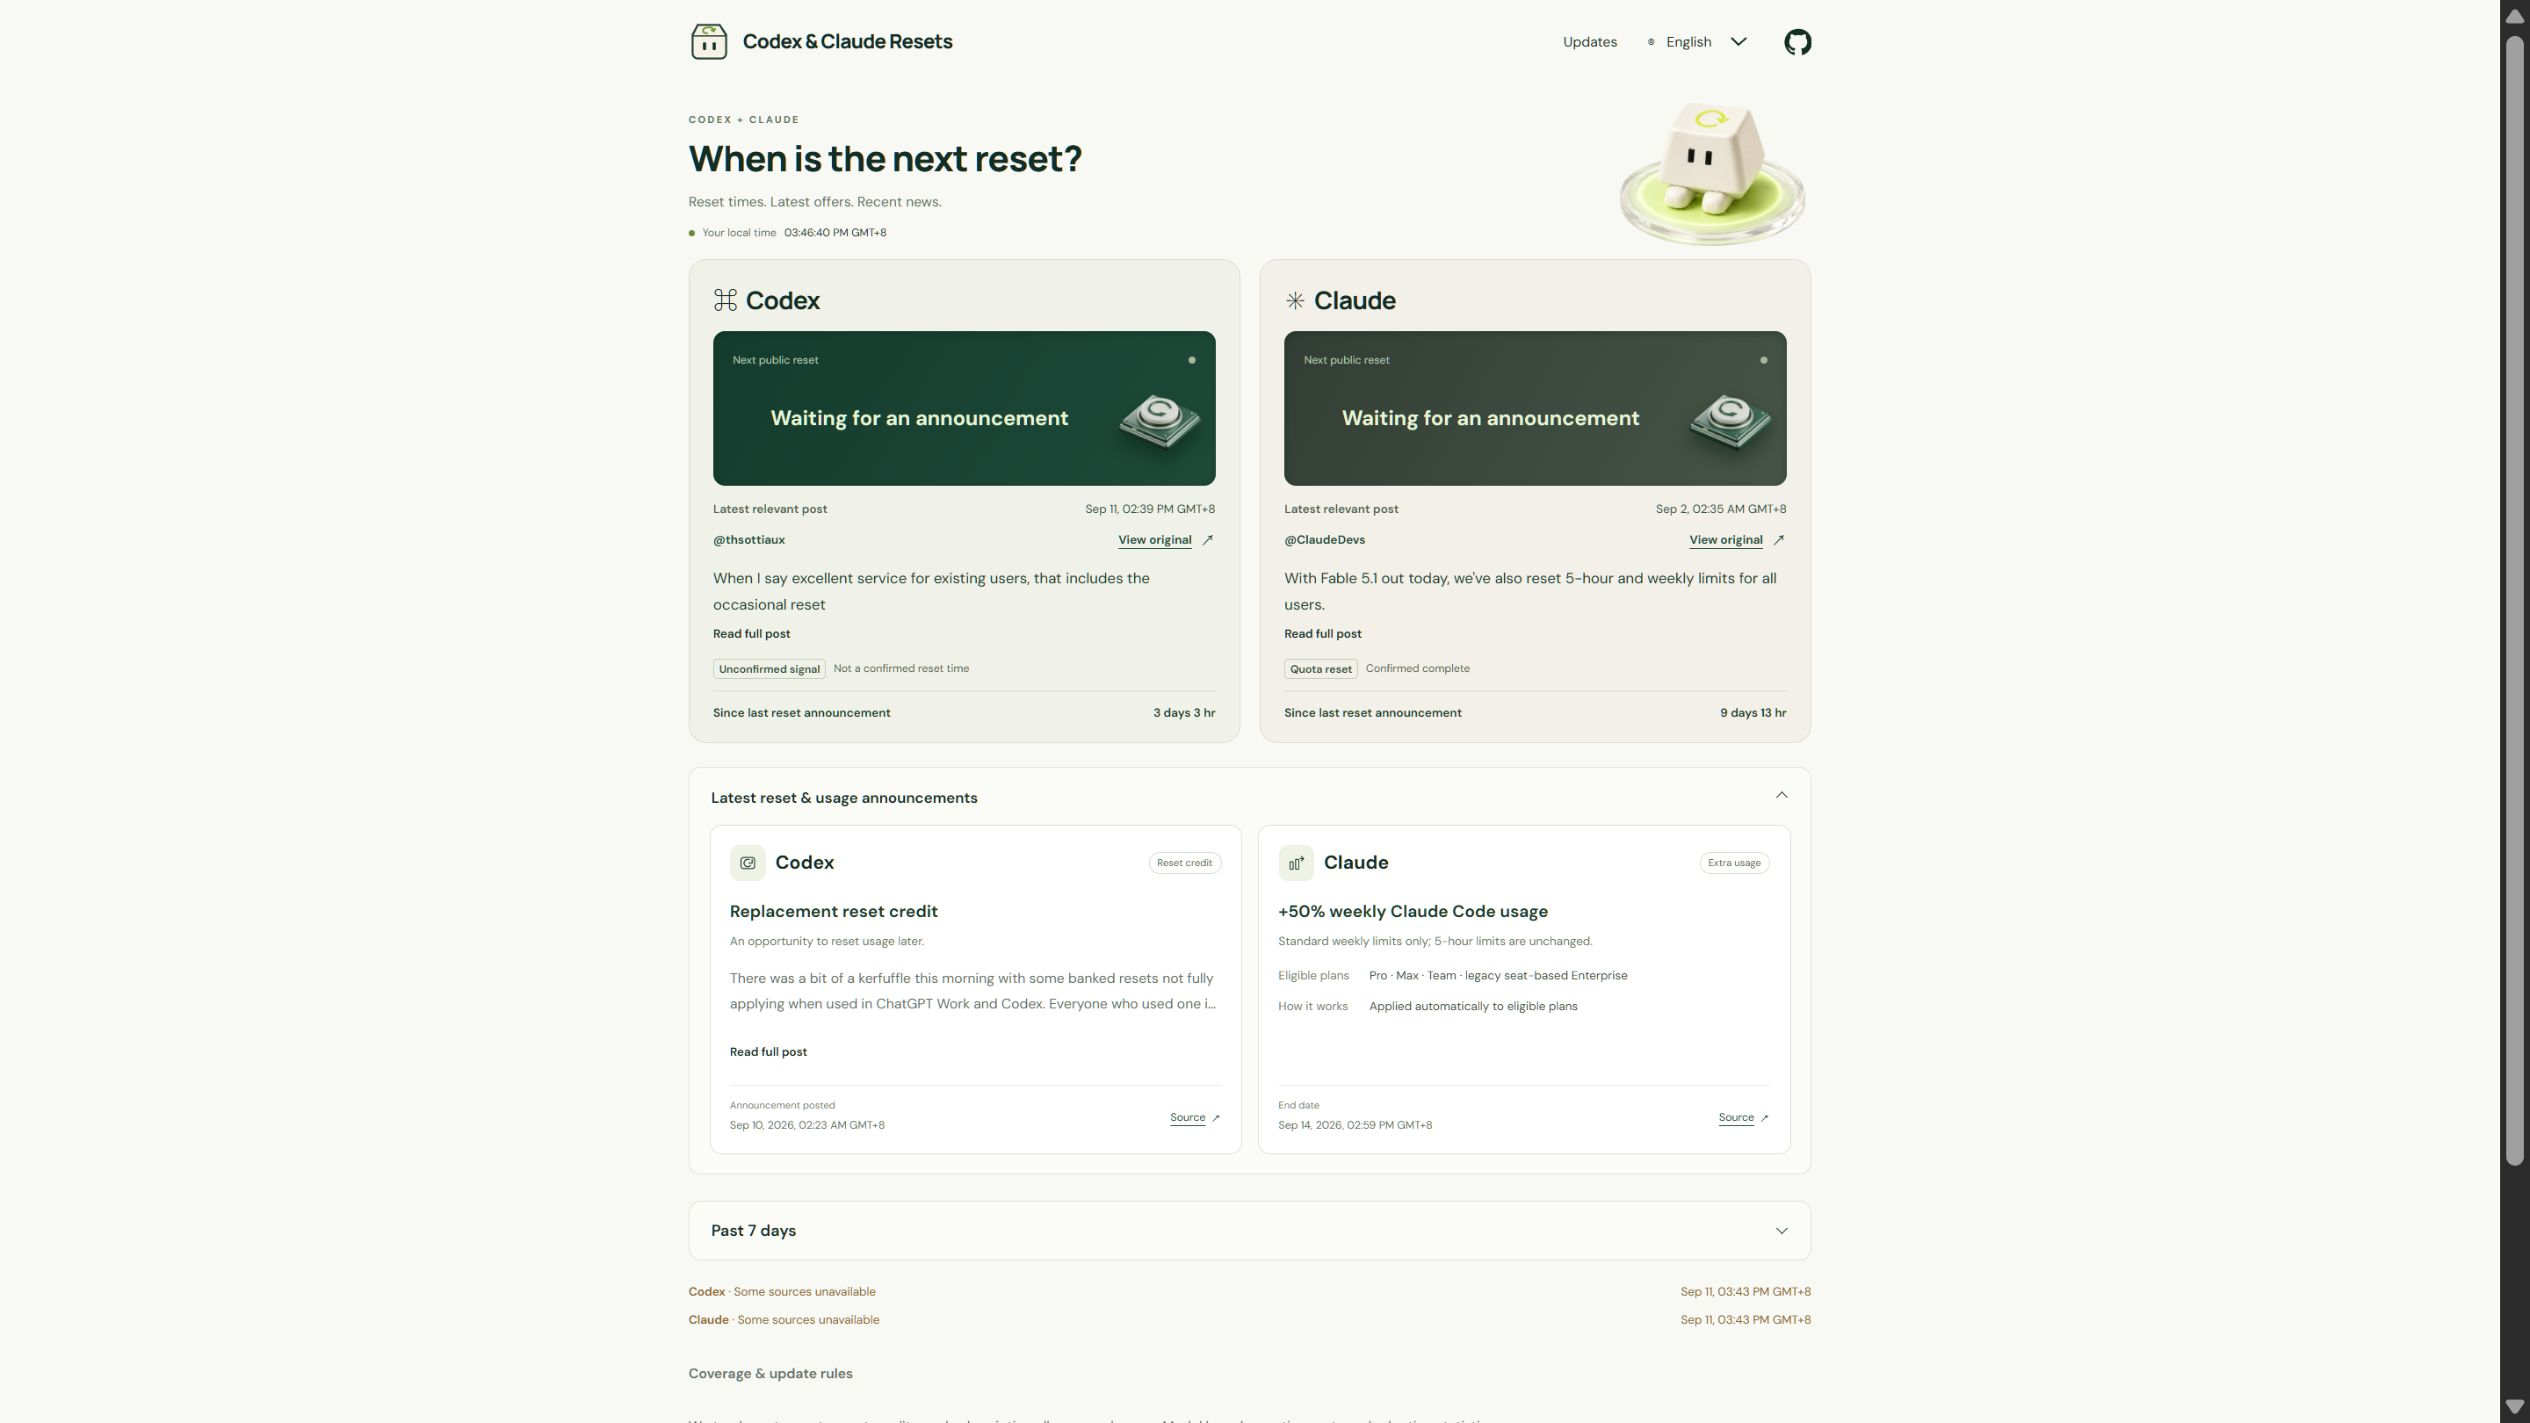
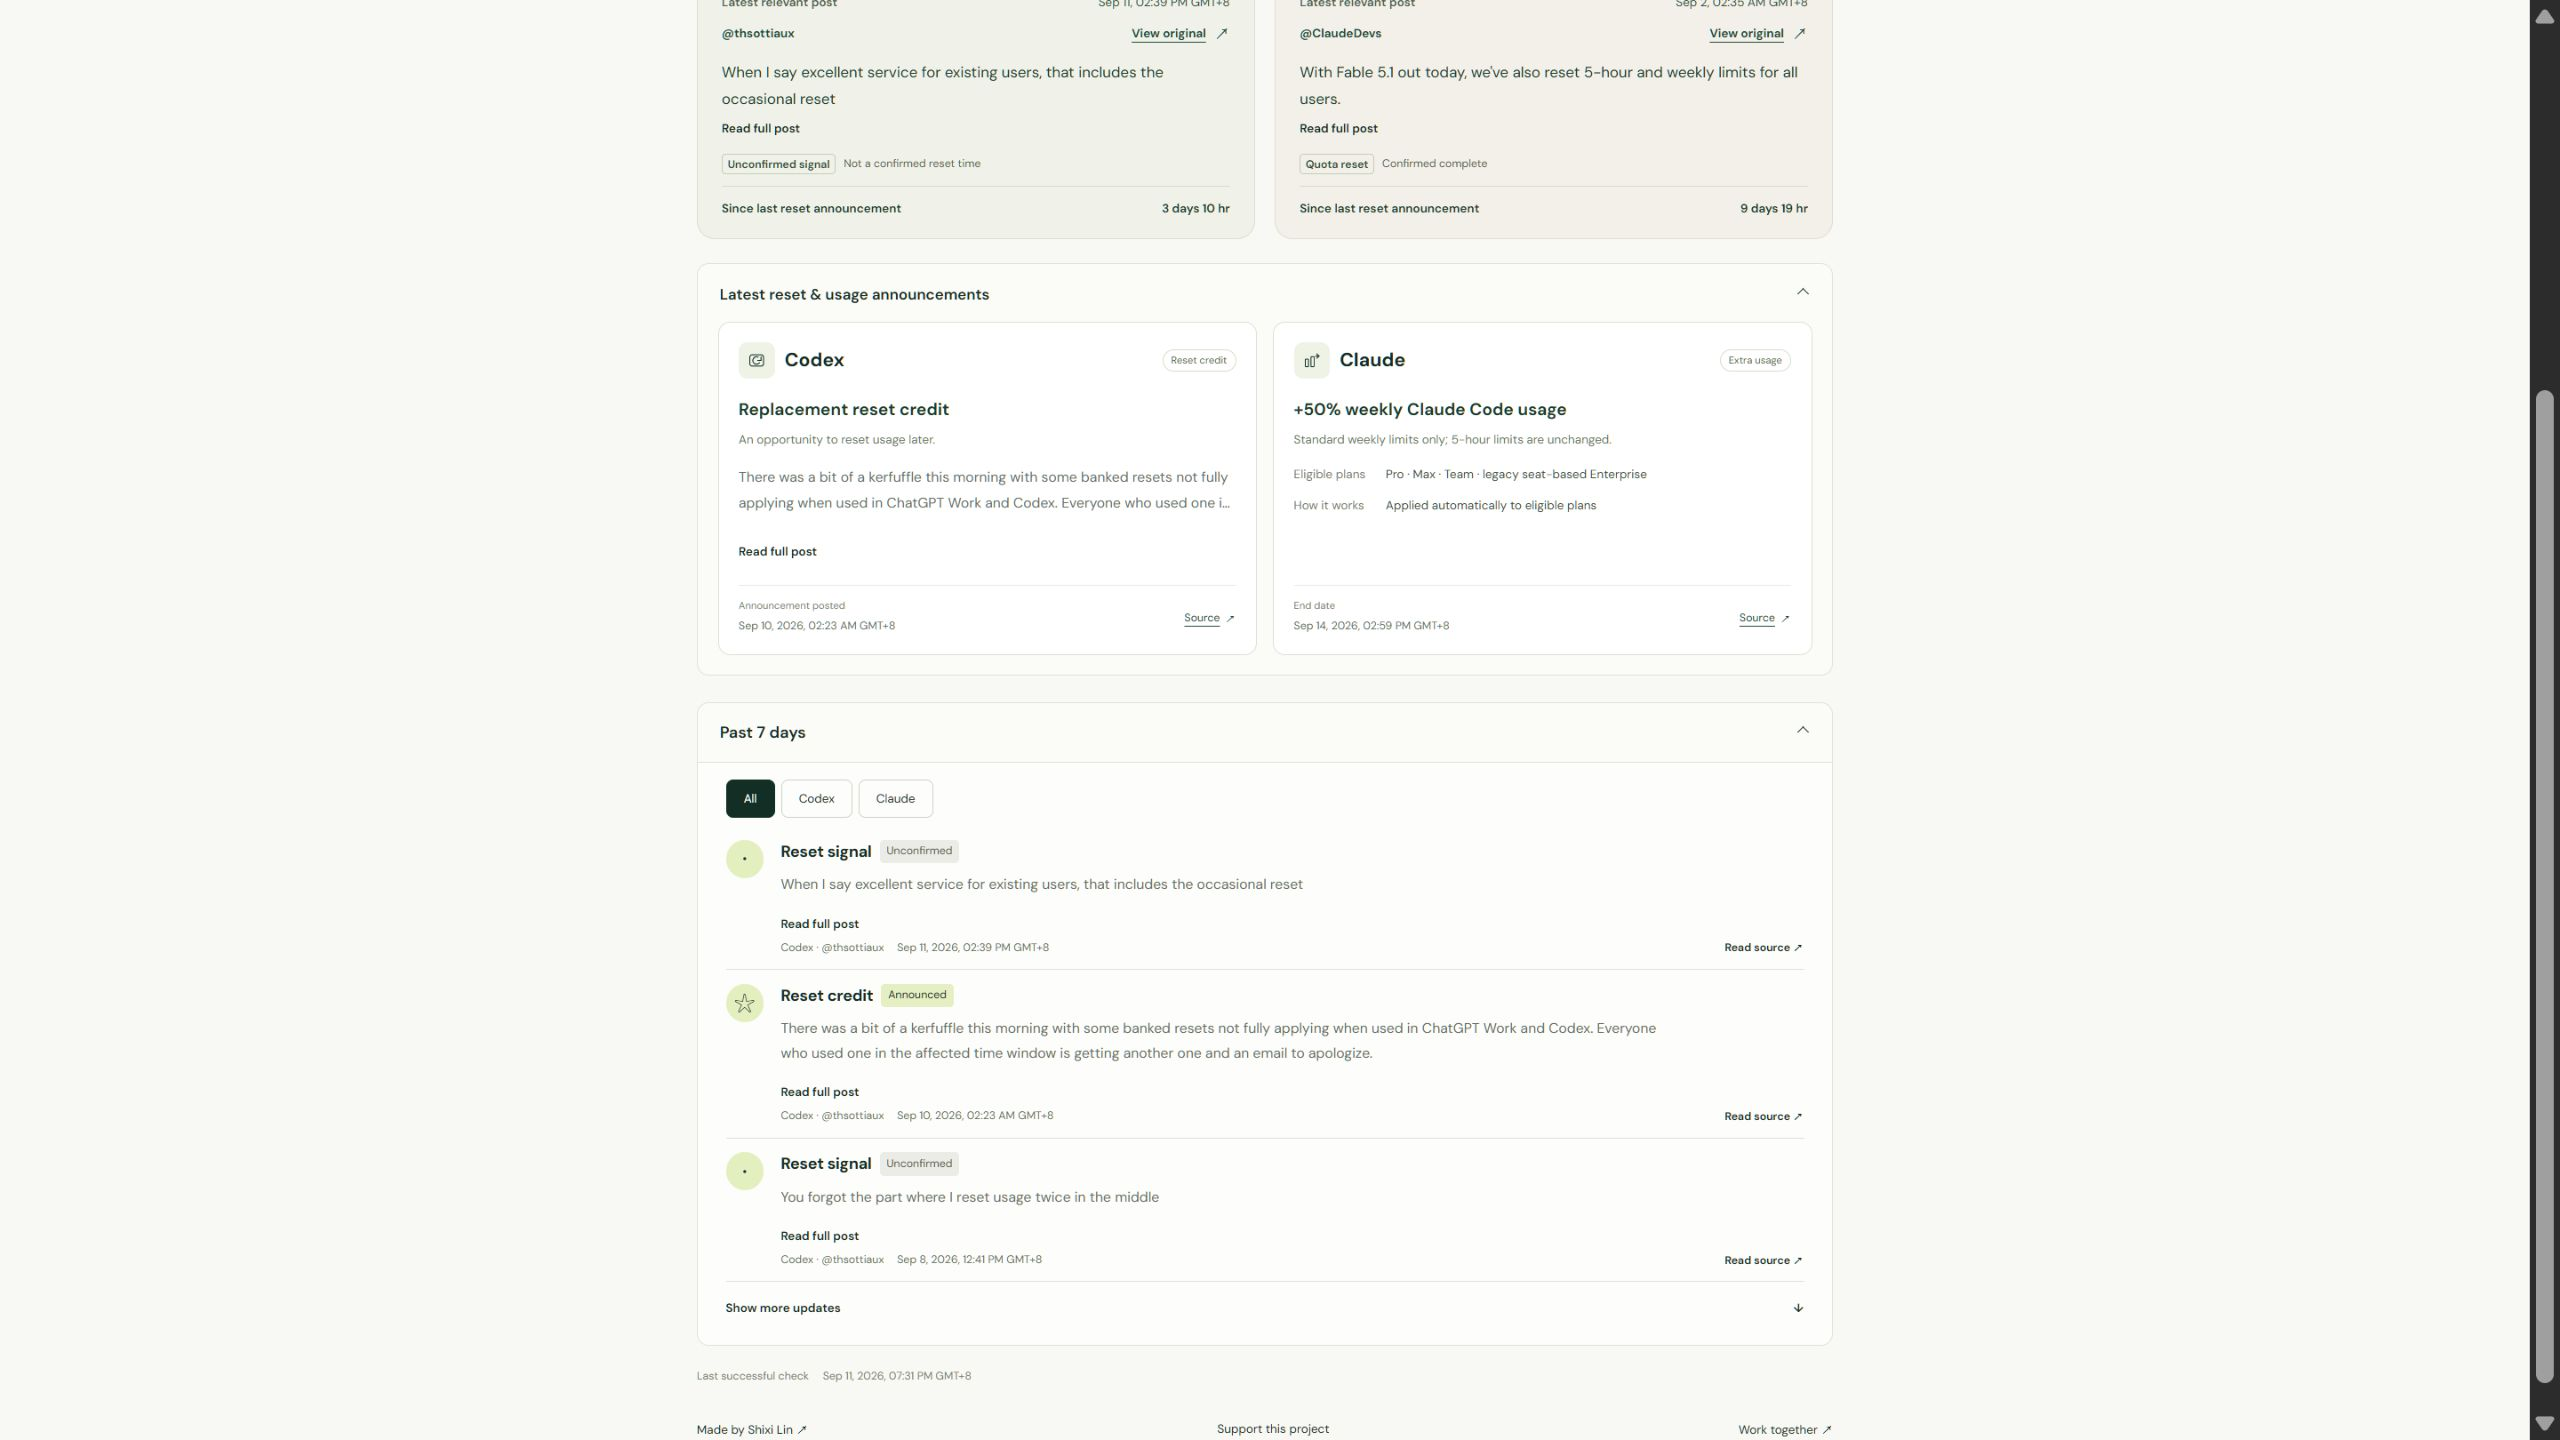
Restore visitor-facing check time and remove internal rules from pages

diff --git a/src/clocks.css b/src/clocks.css
@@ -44,5 +44,3 @@
 .post-preview{display:-webkit-box;-webkit-box-orient:vertical;-webkit-line-clamp:2;overflow:hidden;white-space:pre-wrap}
 .post-body{display:flow-root}.post-full[open]{display:flow-root;position:relative;padding-bottom:32px}.post-full[open]>summary{position:absolute;inset-inline:0;bottom:0}
 .offer-grid{align-items:stretch}.offer-card{display:flex;flex-direction:column;gap:0}.offer-card .offer-bottom{margin-top:auto}.offer-card>:nth-last-child(2){margin-bottom:17px}@media(max-width:650px){.offer-card>:nth-last-child(2){margin-bottom:14px}}
-
-.source-health>.platform-checks:first-child{display:grid;gap:8px;width:100%}.platform-check{display:flex;justify-content:space-between;gap:12px;font-size:12px;color:var(--muted,#65716b)}.platform-check strong{font-weight:600}.platform-check[data-state="degraded"],.platform-check[data-state="stale"]{color:#8c6428}.tracking-rules{width:100%;font-size:12px;line-height:1.7;color:var(--muted,#65716b);margin:14px 0}.tracking-rules summary{cursor:pointer}.tracking-rules p{margin:10px 0}.source-health{flex-wrap:wrap}.source-health>.check-time{display:none}@media(max-width:600px){.platform-check{flex-direction:column;gap:2px}}

diff --git a/README.md b/README.md
@@ -28,7 +28,7 @@ The collector polls @thsottiaux, @OpenAIDevs, @OpenAI, @ClaudeDevs, @AnthropicAI
 
 A post that remains truncated stays **unconfirmed**, even when the visible portion sounds promising. An announcement never becomes a completed reset just because time has passed. “Reported complete” describes the source's statement; it does not verify your account.
 
-The page shows independent Codex and Claude check status and attempt timestamps. A platform is healthy only when all its configured timelines were read and its candidate evidence checks succeeded. No new relevant post is a valid outcome; a failed source is incomplete coverage. After three hours without a successful check, it marks the data as potentially stale, including in a tab left open. This is a selective announcement feed, not a complete account or service-status monitor. See [OpenAI's usage guidance](https://help.openai.com/en/articles/11369540-using-codex-with-your-chatgpt-plan) for account-specific details.
+The page shows the last successful check time. Independent Codex and Claude check results are recorded in `health.json`. A platform is healthy only when all its configured timelines were read and its candidate evidence checks succeeded. No new relevant post is a valid outcome; a failed source is incomplete coverage. After three hours without a successful check, it marks the data as potentially stale, including in a tab left open. This is a selective announcement feed, not a complete account or service-status monitor. See [OpenAI's usage guidance](https://help.openai.com/en/articles/11369540-using-codex-with-your-chatgpt-plan) for account-specific details.
 
 Post translations are cached in `data/translations.json` and bound to the exact excerpt and source content hash. The scheduled collector uses FxEmbed's documented `lang` parameter for newly discovered text; failed translations remain pending and display the English original. Current excerpts receive editorial correction, especially for reset-credit terminology. Translated prose never determines evidence status or countdown time. The browser receives cached text, with no translation credentials or paid API fallback.
 
@@ -82,10 +82,10 @@ Code is MIT-licensed. Fonts retain their own OFL licenses. Source excerpts remai
 - 首页展示下次重置、最新相关推文和上次重置公告；上次公告以持续更新的已过去时间显示，准确日期与来源在下方查看。
 - 最新重置与额度方案放在近期消息前面。Codex按发布时间选择最新的统一重置或赠卡公告，较早方案留在消息记录中。
 - 消息列表只显示最近7天，按原帖发布时间从新到旧排列，支持全部、Codex、Claude筛选。历史原始记录及独立链接仍保留。
-- 公告、截止时间、消息列表和各平台检查时间均显示访客设备的本地时间及GMT偏移，自动处理夏令时；切换语言不会改变时区。
+- 公告、截止时间、消息列表和上次成功检查时间均显示访客设备的本地时间及GMT偏移，自动处理夏令时；切换语言不会改变时区。
 - 默认英文，提供九种语言，消息正文随语言切换并保留原文入口。新消息自动尝试翻译，未完成时显示英文原文与待更新提示。
 - 只收录额度重置、重置卡及订阅额度信息；模型退役、发布或使用人数变化不会仅因含有“usage”而进入消息列表。规则更新后会重新判断完整历史原文，清除误收。
-- 六个允许的官方账号分别采集，Codex与Claude分别显示检查状态。没有新消息与来源检查失败分开处理；计划、线索、补发和已宣布完成不会混为一谈。
+- 六个允许的官方账号分别采集，Codex与Claude的独立检查状态保存在数据中，页面保留上次成功检查时间。没有新消息与来源检查失败分开处理；计划、线索、补发和已宣布完成不会混为一谈。
 - 每半小时检查公开消息，每天生成来源摘要。调度可能延迟，来源故障和过期状态会在页面显示。
 
 网站无法查看或重置个人账号的实际额度。请以Codex额度面板或CLI中的`/status`为准。日常自动化不需要付费模型，也不会把订阅登录凭据上传到GitHub。

diff --git a/docs/data.md b/docs/data.md
@@ -24,4 +24,4 @@ The collector polls all six allowlisted author timelines through FxEmbed. Offici
 7. **Display without inference.** Latest related publication, last reported completed reset and scheduled next reset are separate. No explicit time means no countdown. Passing the scheduled time does not confirm completion. The seven-day feed includes the latest post and sorts by original publication time. Public completion claims cannot establish any individual account’s state.
 8. **Keep translation downstream.** Classification uses verified original text. Translations are bound to content hashes and preserve original paragraphs; missing translations display the original.
 
-The homepage presents the scope and update cadence in all nine languages. Detailed source outcomes and independent platform health are exposed in `health.json`. Git history records corrections. The scheduled workflow checks twice hourly, but scheduler or upstream delays are possible.
+The homepage retains its last successful check time. Collection rules remain in the project documentation; detailed source outcomes and independent platform health are exposed in `health.json`. Git history records corrections. The scheduled workflow checks twice hourly, but scheduler or upstream delays are possible.

diff --git a/AGENTS.md b/AGENTS.md
@@ -5,3 +5,5 @@
 - 截图使用 docs/screenshot.jpg；README 使用该图片所在提交的完整 raw.githubusercontent.com 地址，避免旧图片缓存。截图必须包含本轮最终改动，且不含残留字符、报错或加载状态。
 - 发布后检查线上页面及 README 图片引用；截图更新不意味着 Telegram 客户端缓存已经刷新。
 - 推文译文按原文的段落和主动换行组织；原文连在一起时不擅自分段，原文分段时不擅自合并。窄屏自然折行不属于原文分段。
+
+- 成品受众与范围门禁：页面只显示访客需要的消息、条件、来源和检查时间；采集规则、门禁与内部验收说明留在工程文档。后台机制修改不授权前台改版，未被要求修改的内容与排版保持原样。发布前核对这两项，越界必须先恢复。
